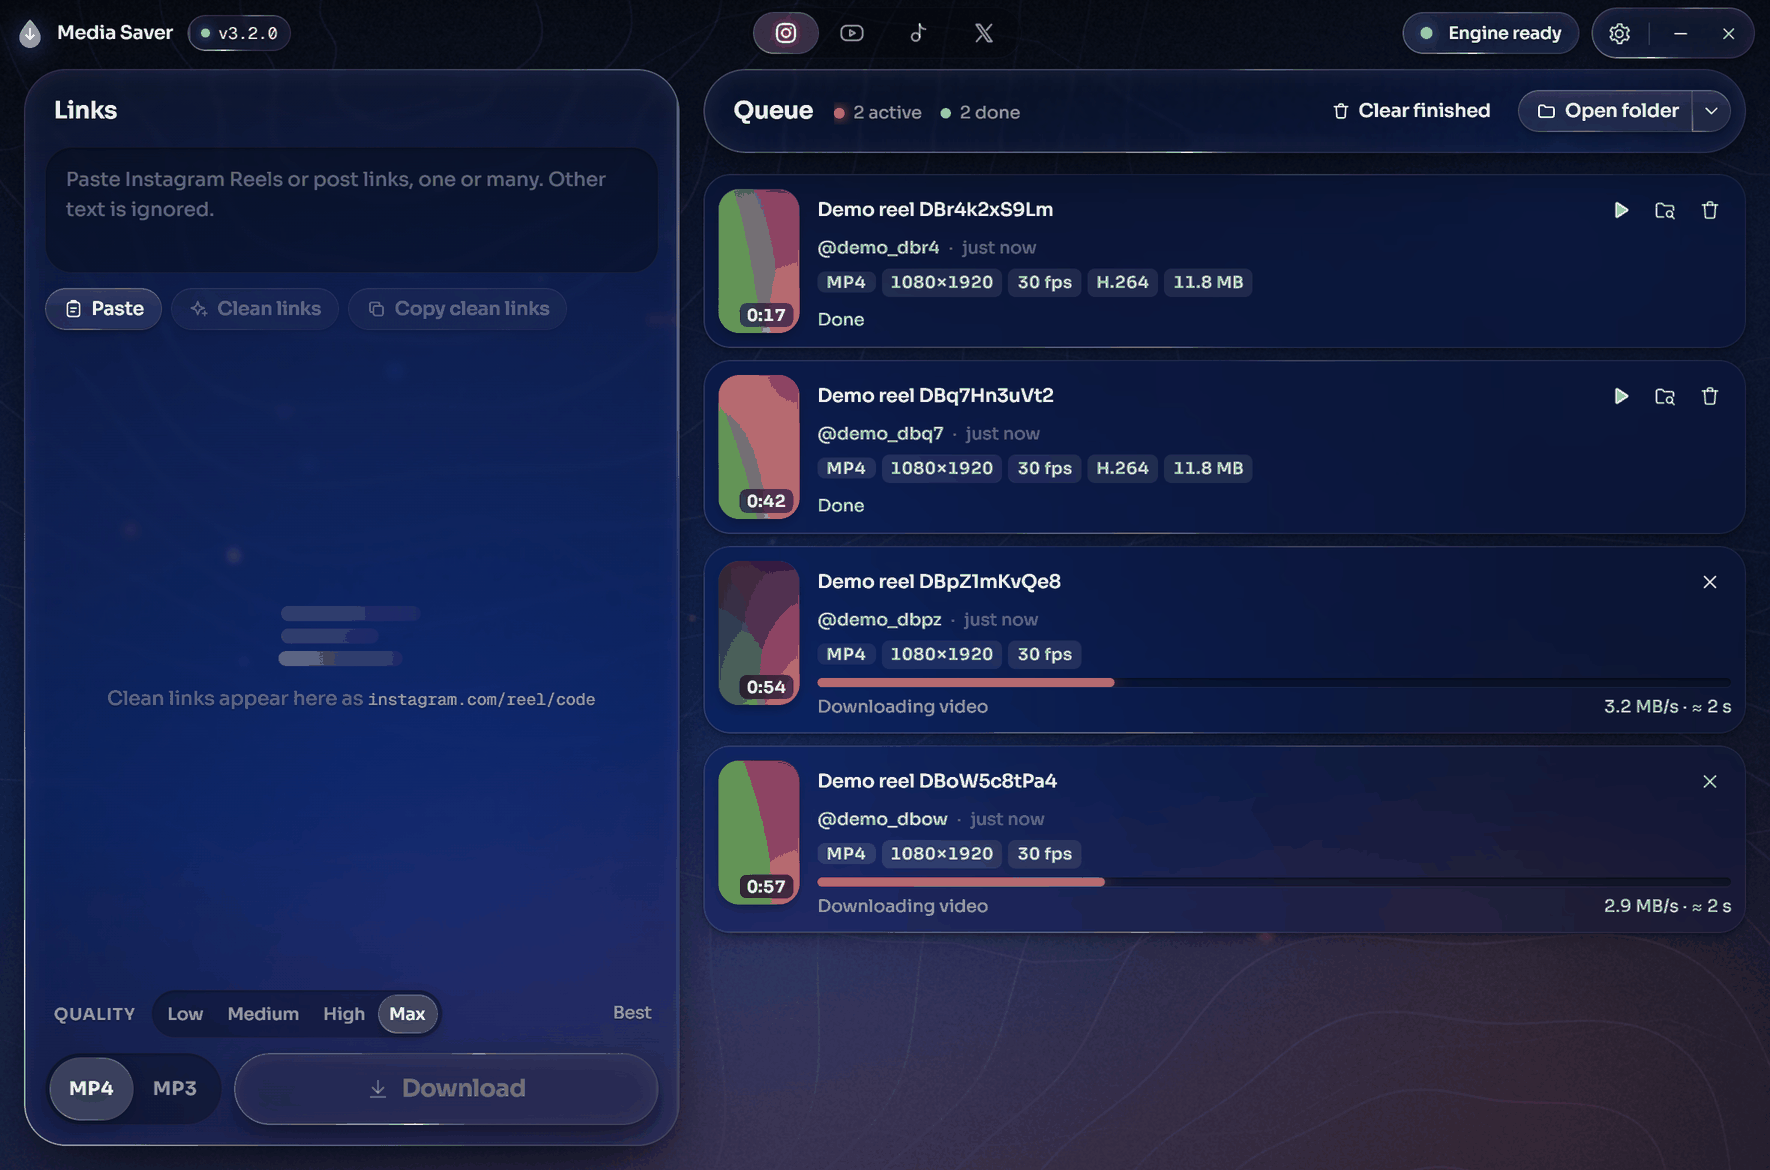
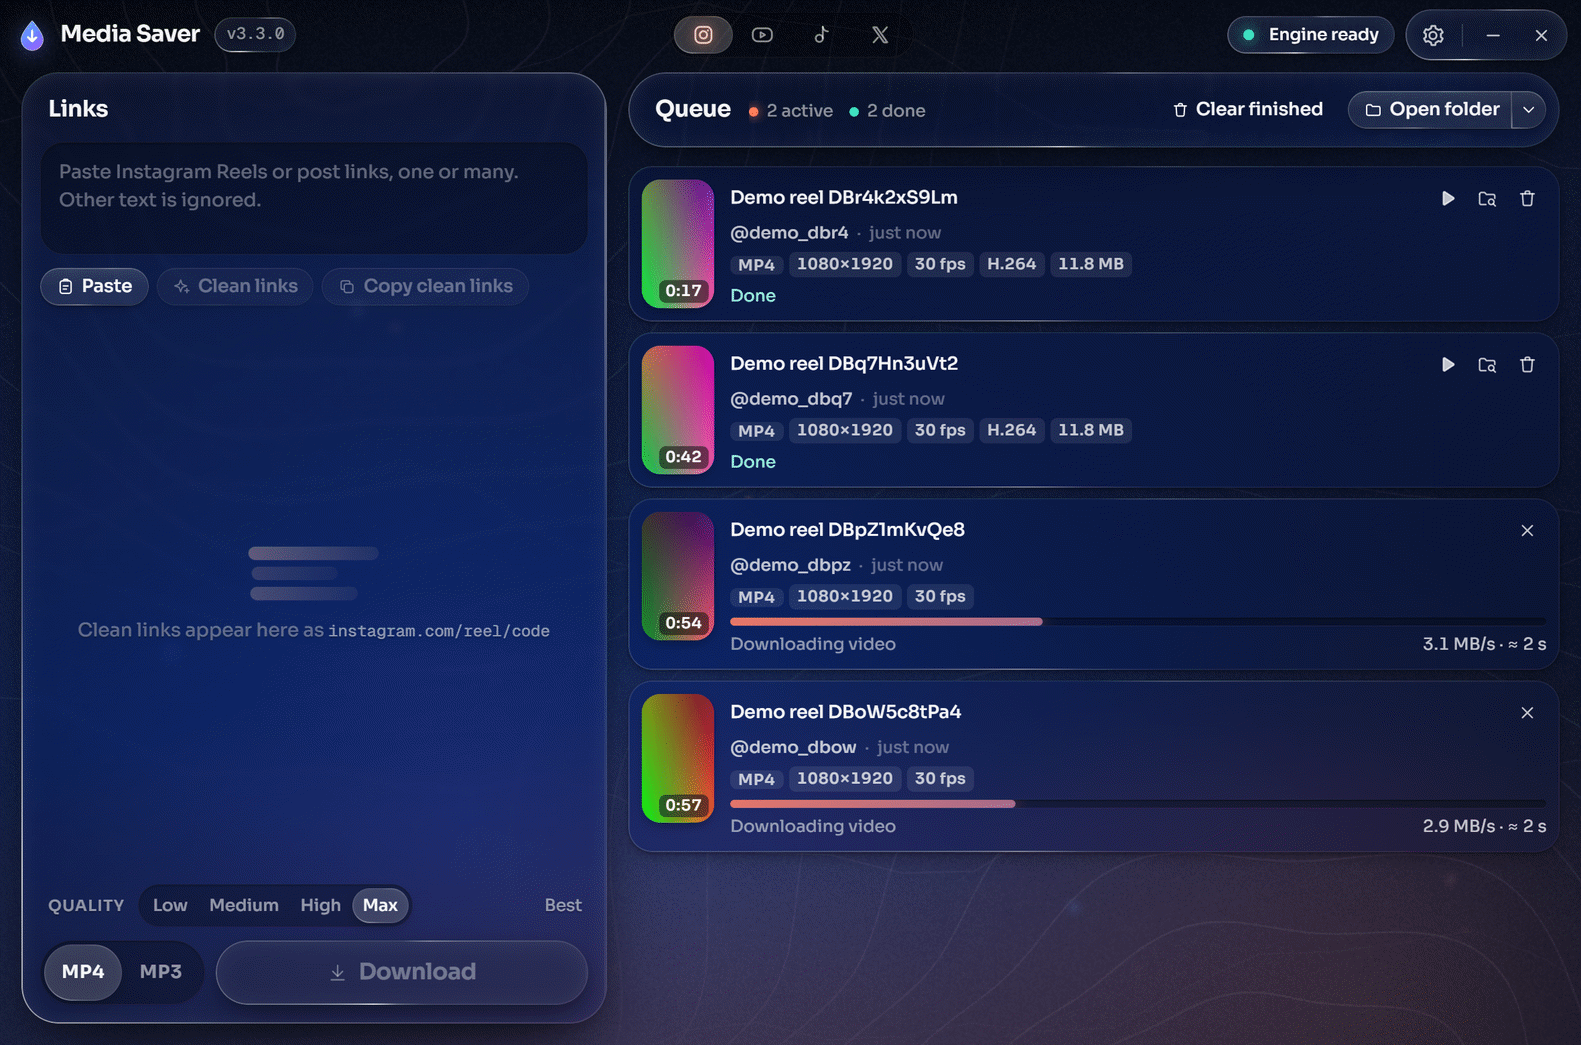
Larger type scale and a 52 px title bar; release v3.3.0

diff --git a/ui/js/main.js b/ui/js/main.js
@@ -44,7 +44,7 @@ function initTitlebar() {
   const win = (method) => () => call(method).catch((err) => toast('error', err.message));
   titlebar = mountTitlebar(document.getElementById('titlebar'), {
     name: 'Media Saver',
-    glyph: appGlyph(20),
+    glyph: appGlyph(24),
     onSettings: () => toggleSettings(),
     onMinimize: win('window_minimize'),
     onClose: win('window_close'),

diff --git a/app/__init__.py b/app/__init__.py
@@ -1,3 +1,3 @@
 """Media Saver application package."""
 
-__version__ = "3.2.0"
+__version__ = "3.3.0"

diff --git a/docs/releases/v3.3.0.md b/docs/releases/v3.3.0.md
@@ -1,0 +1,12 @@
+## ⪩ Media Saver v3.3.0 ⪨
+
+Larger text and a taller title bar, so the window reads comfortably on a large monitor at 100 % display scaling.
+
+---
+
+### ⤷ Changed ˎˊ˗
+
+- **Text size** — every text style is one step larger: body text 14 px instead of 13, labels and buttons 13.5,
+  headings 17, meta lines 12.5, paths and versions 13. Weights and line spacing stay the same.
+- **Title bar** — 52 px instead of 44: a larger app glyph, the app name in the heading size, a taller version
+  pill and larger Settings, Minimize and Close buttons.
